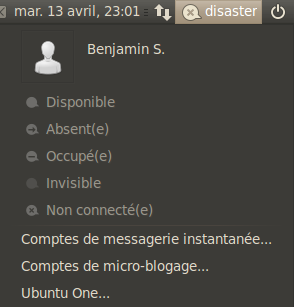
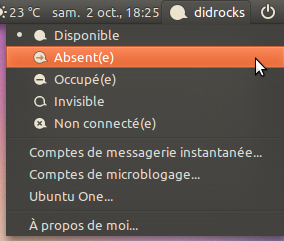
ajout de détail sur indicateur son, indicateur message et retravail de la description de la partie supérieure

diff --git a/corps/chapitre3/chapitre3.tex b/corps/chapitre3/chapitre3.tex
@@ -266,20 +266,24 @@ Cette option ouvre une page d'introduction à Ubuntu dans un navigateur.
 \subsection{Autres éléments du tableau de bord supérieur}
 \AddIndex{Environnement graphique}{-}{GNOME}{-}
 \IconeBarreHaut
-Se trouvent immédiatement à droite de la zone «~menu~», deux raccourcis vers des applications bien pratiques : le premier concerne Firefox, le célèbre navigateur \RefGlossaire{-}{L'Internet}{Internet}{Internet} -- qui remplace Internet Explorer -- que vous connaissez et utilisez sûrement.\par
+Se trouvent immédiatement à droite de la zone «~menu~», un raccourci (lanceur) vers Firefox, le célèbre navigateur \RefGlossaire{-}{L'Internet}{Internet}{Internet} -- qui remplace Internet Explorer -- que vous connaissez et utilisez sûrement.\par
 %Le second est un gestionnaire de messagerie -- équivalent d'Outlook -- nommé Évolution, offrant une intégration parfaite au bureau \AddIndex{Environnement graphique}{-}{GNOME}{GNOME}, notamment au niveau de la gestion de votre agenda, carnet d'adresses ou encore de vos différentes tâches. Nous verrons ces points dans la partie \ref{RefCalendrierEvolution}. Suit ensuite l'aide très complète de GNOME.\par
 Le second est l'aide très complète de GNOME.\par
 Nous retrouvons ensuite le Network-Manager, gestionnaire de réseaux dont l'utilisation sera décrite dans la section \ref{RefUtilisationNM}. Celui-ci se présente sous la forme de 2 \RefGlossaire{-}{-}{Icône}{icônes} différentes selon que vous soyez en connexion filaire -- figure \ref{ImgConnexionFilaire} -- ou en connexion sans fil --- figure \ref{ImgConnexionWifi}.\\
 Les indicateurs se trouvent à la suite --- il est même possible d'utiliser les flèches droites/gauche pour passer d'un indicateur à l'autre. Le système fera apparaître, par exemple, une petite \RefGlossaire{-}{-}{Icône}{icône} avec un message sur l'état de vos disques dur et d'autres évènements présentées par les applications --- comme prévenir de l'arrivée de nouveaux mails. Les -- heureux -- possesseurs d'un ordinateur portable y ont également un indicateur de charge batterie.\\
-Vous y retrouverez également un contrôleur de volume\NotePage{En utilisant la roulette de souris sur cet indicateur de volume général, il est possible ainsi de directement contrôler le niveau sonore !}.\\
-L'application de centralisation de notifications -- correspondant à une enveloppe -- est également intégrée par un clic gauche permet de voir d'un seul coup d'oeil les derniers messages, emails et les indications des différents réseaux sociaux (facebook, twitter, identica\dots{}) reçus. Cette enveloppe devient verte dès qu'un nouvel évènement apparaît.\\
 Bien entendu, il vous sera ensuite présenté l'indispensable horloge, avec possibilité de copier la date et l'heure par un simple clic-droit !
-\subsection{L'indicator de session et le MeMenu}
+\subsection{L'indicateur de son}
+L'indicateur de son est une petite merveille en soi. En plus de bien évidemment contrôler le volume\NotePage{En utilisant la roulette de souris sur cet indicateur de volume général, il est possible ainsi de directement contrôler le niveau sonore !} avec la barre proposée, il est également possible de démarrer un lecteur audio ou vidéo associé à ce dernier. Il suffit par exemple de lancer la première fois Rhythmbox à partir de «~Applications \FlecheDroite Son et Vidéo \FlecheDroite Rhythmbox~» pour qu'il s'enregistre à l'indicateur de son. Après, il vous sera possible de le démarrer à partir de celui-ci, de mettre en pause la lecture en cours ou encore de passer/revenir d'une piste, tout en voyant le titre et l'album affichés. Noter que Rhythmbox change alors de comportement : lorsque l'on clique sur l'icône de fermeture en haut à gauche, il se fermera s'il n'est pas en train de lire une musique, ou il se masquera sinon tout en continuant sa lecture.
+\ImgCentree{10}{corps/chapitre3/img/Indicateur_Son_Detail.png}{Indicateur de son}{ImgIndicateurSon}
+\subsection{L'indicateur de message}
+Cette particularité de Ubuntu permet la centralisation de notifications. L'indicateur de message est compatible avec la plupart des outils de messagerie de mail ou de messagerie instantannée communément utilisés. Le menu -- correspondant à une enveloppe -- peut s'ouvrir par un clic gauche permet de voir d'un seul coup d'oeil les derniers messages, emails et les indications des différents réseaux sociaux (facebook, twitter, identica\dots{}) reçus. Les applications par défaut associées sont empathy pour la messagerie instannée, evolution pour le courrielleur, et gwibber pour les réseaux sociaux. Cette enveloppe devient verte dès qu'un nouvel évènement apparaît. Une flèche indique que l'application associée est active, sinon, un simple clic sur son nom l'exécute.
+\ImgCentree{10}{corps/chapitre3/img/Indicateur_Message_Detail.png}{Indicateur de message}{ImgIndicateurMessageDetail}
+\subsection{L'indicateur de session et le MeMenu}
 \label{RefSwitchUser}
-Cet applet se trouve tout en haut à droite de votre écran et contient deux parties. Elle vous permet d'accéder à plusieurs élements de manière simple.\par
-Tout d'abord, vous y retrouverez votre nom avec possibilité d'y associer plus d'information comme une image. \\
+Cet indicateur se trouve tout en haut à droite de votre écran et contient deux parties. Elle vous permet d'accéder à plusieurs élements de manière simple.\par
 Si vous êtes un fervent utilisateur de réseaux sociaux et avez configuré votre «~Comptes de micro-blogage\ldots{}~» et que gwibber est lancé, vous aurez une barre de texte permettant de gazouiller rapidement un message sur Twitter et autres.\\
-Cet applet s'ornera également d'un indicateur de votre statut d'activité de votre outil de messagerie instantanée -- à noter que pour l'instant seul Empathy et Pidgin, cf les sections \ref{RefEmpathy} (installé par défaut) et \ref{RefPidgin} le supportent -- présent, absent, occupé\ldots{} Il vous permettra aussi de le changer directement. Essayez de lancer un de ces outils de messagerie et vous verrez par vous-même. Vous y retrouverez également tous les liens pour configurer vos comptes\par
+Cet applet s'ornera également d'un indicateur de votre statut d'activité de votre outil de messagerie instantanée -- à noter que pour l'instant seul Empathy et Pidgin, cf les sections \ref{RefEmpathy} (installé par défaut) et \ref{RefPidgin} le supportent -- présent, absent, occupé\ldots{} Il vous permettra aussi de le changer directement. Essayez de lancer un de ces outils de messagerie et vous verrez par vous-même. Vous y retrouverez également tous les liens pour configurer vos comptes.\\
+Tout d'abord, vous y retrouverez votre nom avec possibilité d'y associer plus d'information comme une image.\par
 Vous trouverez dans le deuxième menu le nom de tous les utilisateurs enregistrés de votre ordinateur. En cliquant sur l'un d'eux, il est possible de changer d'utilisateur -- ce qui signifie de suspendre temporairement votre session courante pour qu'un autre utilisateur puisse se connecter. Une fois que ce dernier aura terminé et cliqué également sur «~Se déconnecter\ldots{}~», vous pourrez retrouver votre session dans l'état où vous l'avez quittée (les programmes déjà ouverts le resteront à la reprise).\\
 Une option spéciale «~Session d'invité~» est disponible. Ce compte temporaire vous permet de laisser une personne -- un ami ou lors des expositions/\IndicCesure{}démonstrations -- utiliser votre système d'exploitation en toute sécurité et en préservant vos données personnelles. De plus, tout dossier/fichier créé sera détruit lors de la déconnexion. Vous n'aurez vraiment plus aucune excuse pour laisser un autre individu utiliser votre compte utilisateur\NotePage{Ce qui est MAL, je le répète : un compte = un utilisateur} !\par
 Enfin, vous trouverez les options de gestion de votre session :
